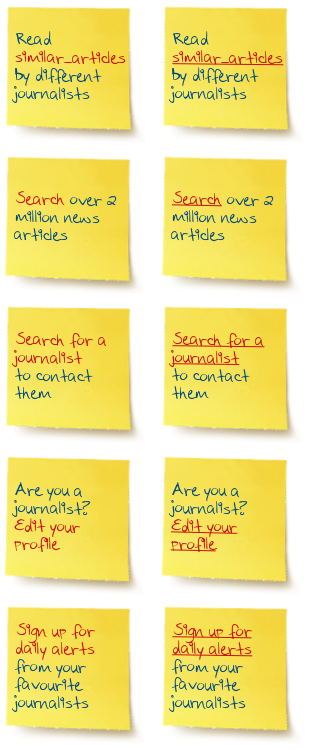
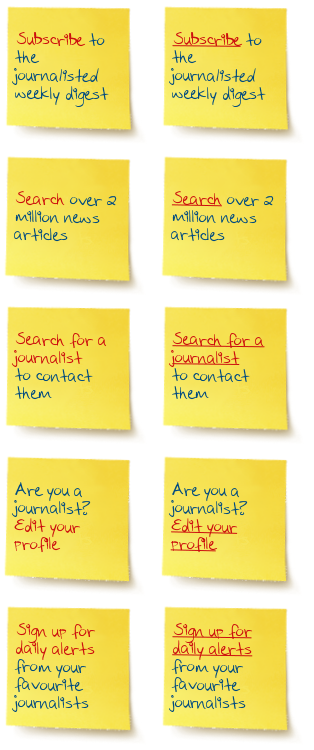
more frontpage postit twiddling

Changed region(s): [[0.5446, 0.0307, 0.9172, 0.1533], [0.0287, 0.0307, 0.4013, 0.1533]]

diff --git a/jl/web/style.css b/jl/web/style.css
@@ -689,15 +689,15 @@ ul.newList li a:focus {-moz-outline-style: none;}
 }
 .box.front .nav a { outline: none; }
 
-.box.front .nav a.articles { left: 340px; top: 11px; } 
+.box.front .nav a.subscribe { left: 340px; top: 11px; } 
 .box.front .nav a.edit-profile { left: 125px; top: 125px; }
 .box.front .nav a.search-articles { left: 510px; top: 127px; }
 .box.front .nav a.search-journos { left: 680px; top: 30px; }
 .box.front .nav a.alerts { left: 815px; top: 120px; }
 
 /* (autogenerated by gen_postits) */
-.box.front .nav a.articles { background-position: 0px 0px; }
-.box.front .nav a.articles:hover { background-position: -157px 0px; }
+.box.front .nav a.subscribe { background-position: 0px 0px; }
+.box.front .nav a.subscribe:hover { background-position: -157px 0px; }
 .box.front .nav a.search-articles { background-position: 0px -150px; }
 .box.front .nav a.search-articles:hover { background-position: -157px -150px; }
 .box.front .nav a.search-journos { background-position: 0px -300px; }

diff --git a/jl/templates/frontpage.tpl.php b/jl/templates/frontpage.tpl.php
@@ -21,7 +21,7 @@
   <span class="brag">140,000 people used journa<i>listed</i> last month!</span>
   <span class="youcan">At journa<i>listed</i> you can:</span>
   <ul class="nav">
-   <li><a class="articles" href="#">articles</a></li>
+   <li><a class="subscribe" href="/weeklydigest">Subscribe to the journa<i>listed</i> weekly digest</a></li>
    <li><a class="edit-profile" href="/profile">edit profile</a></li>
    <li><a class="search-articles" href="/search?type=article">search articles</a></li>
    <li><a class="search-journos" href="/search?type=journo">search for journalists</a></li>
